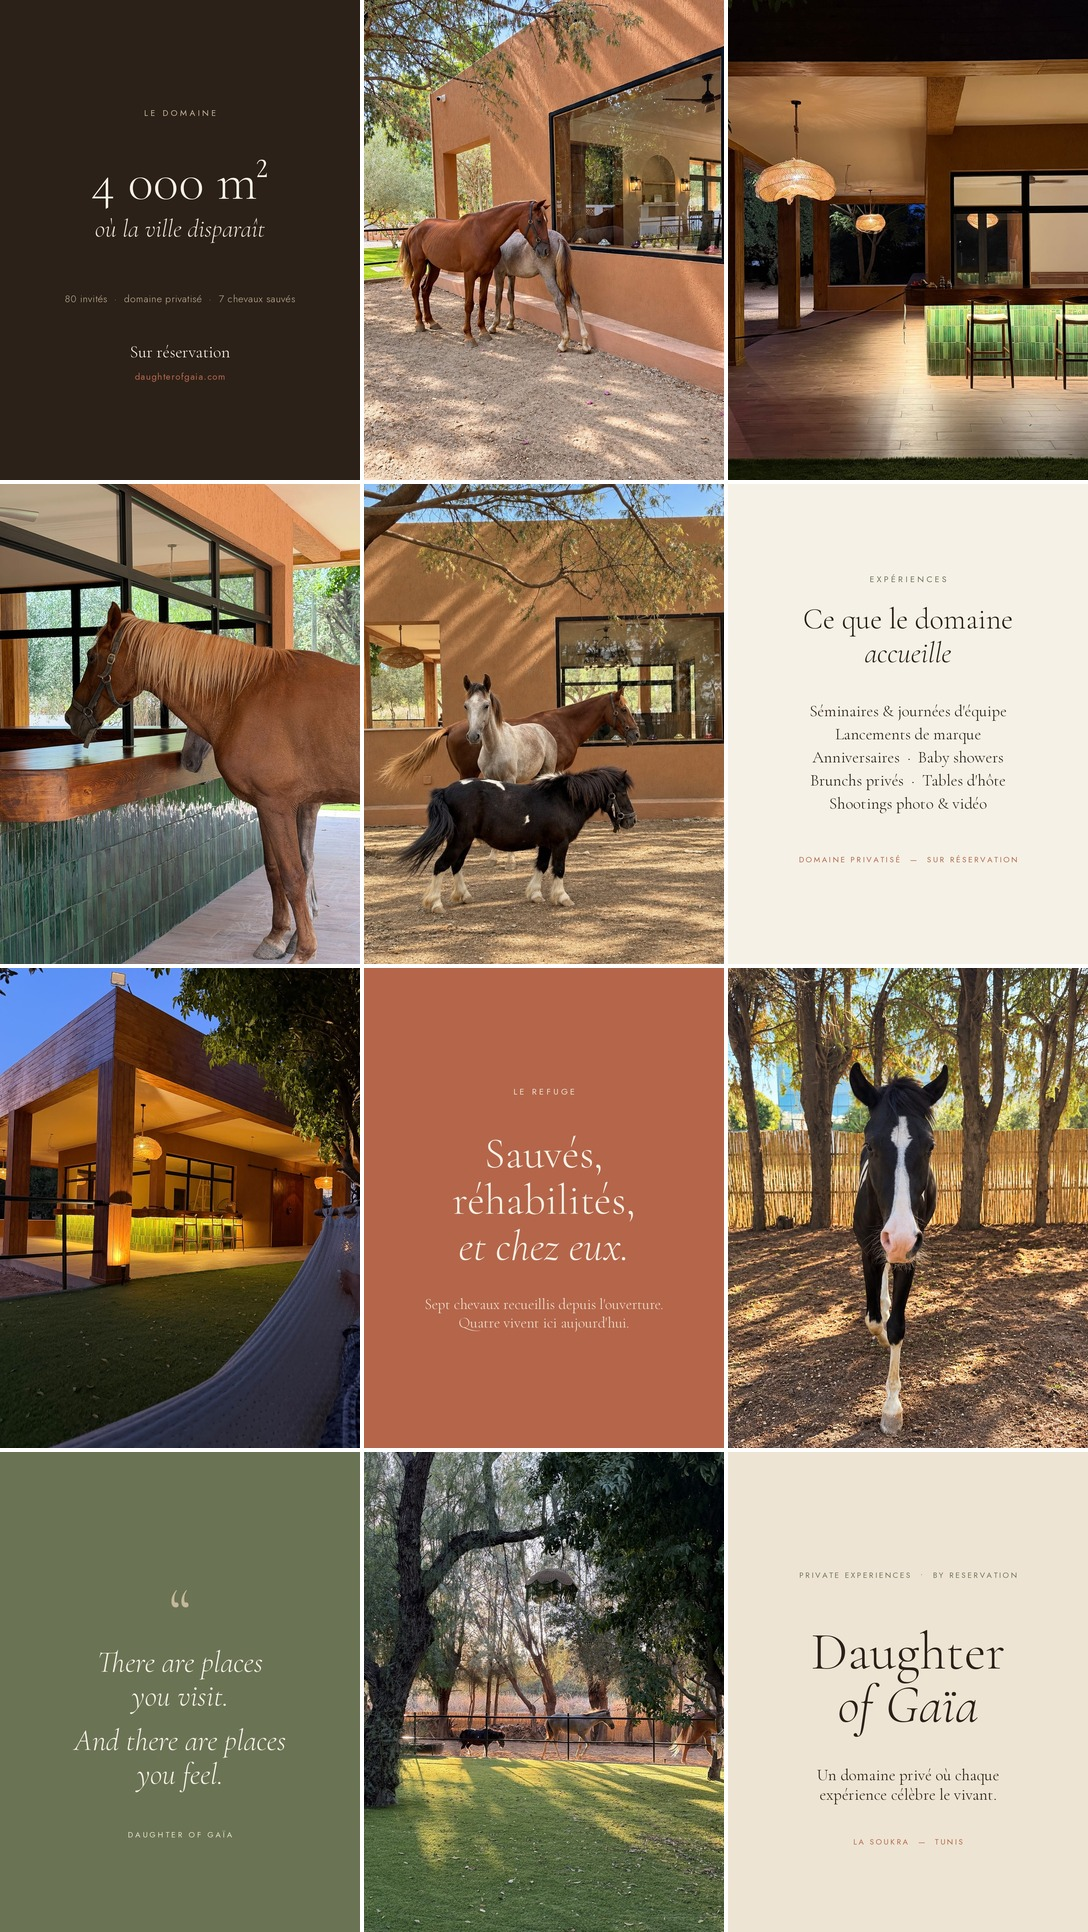
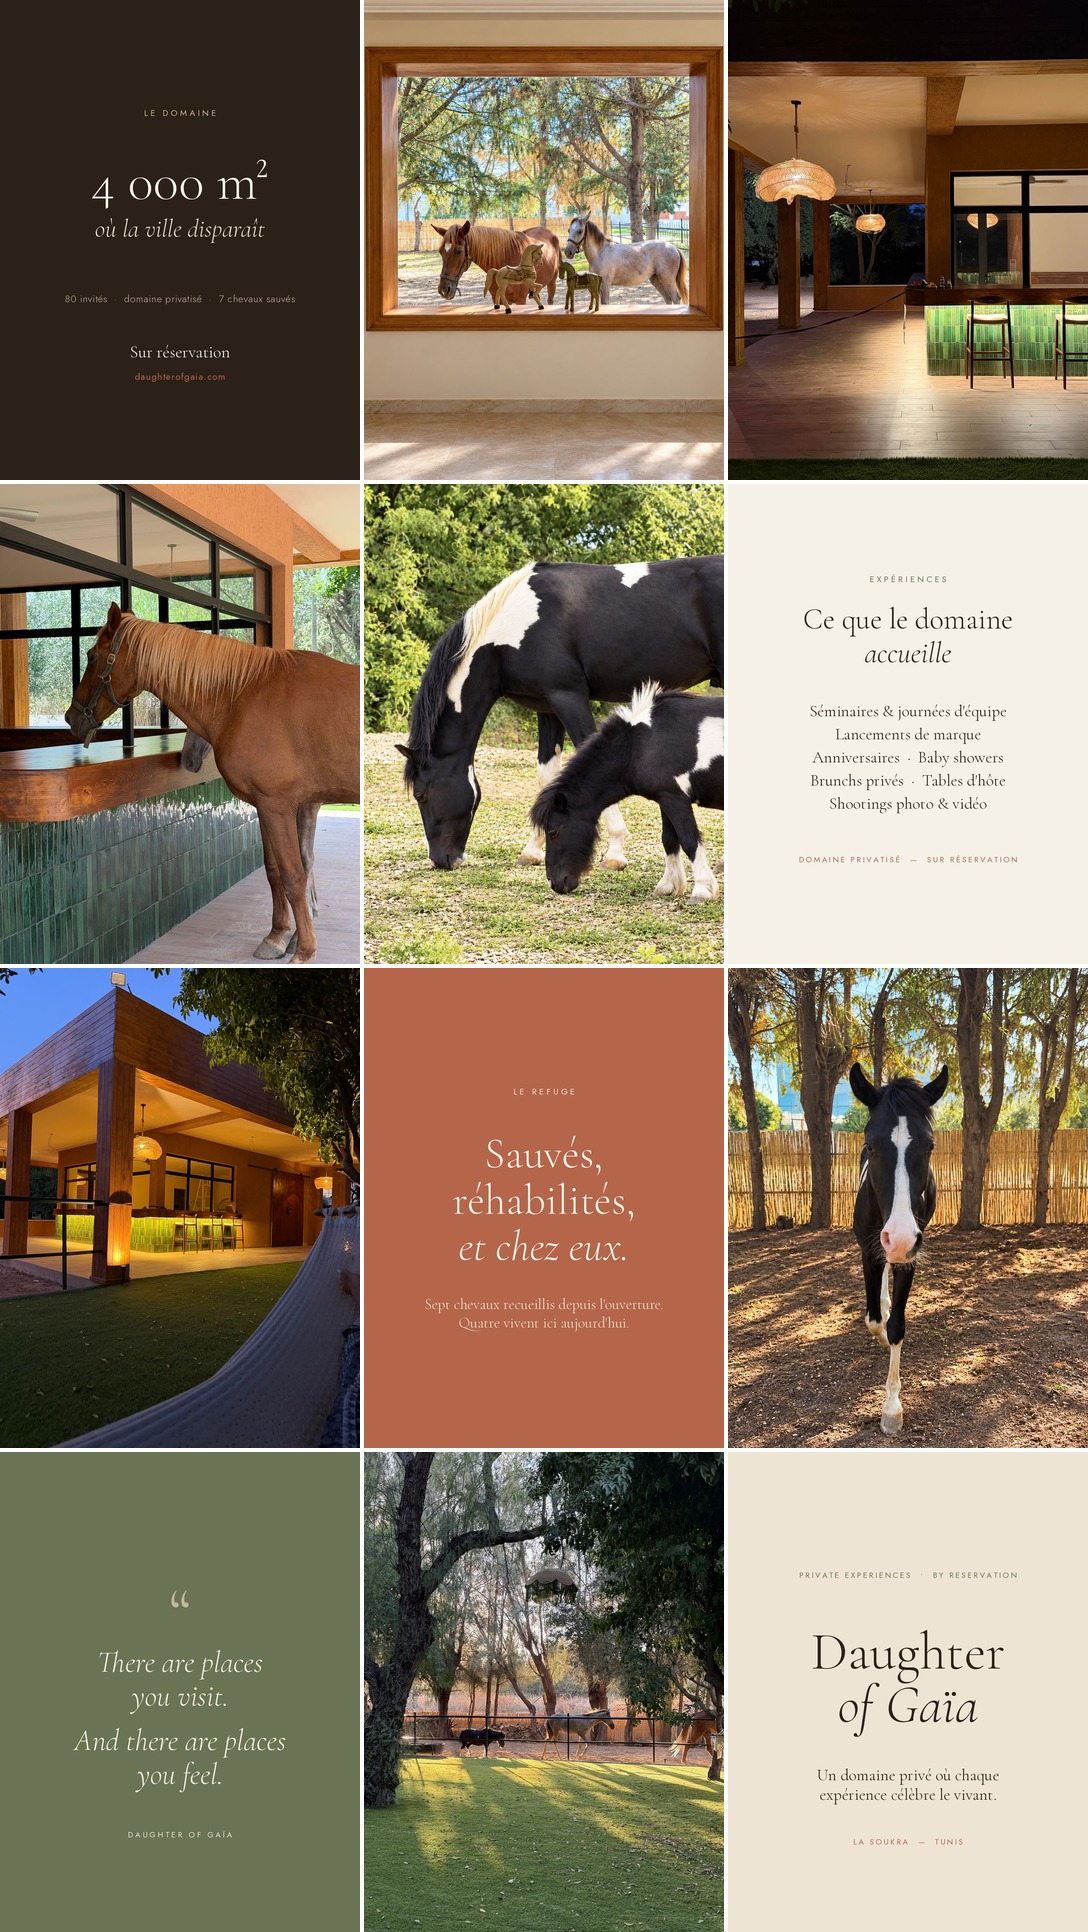
Ajoute deux nouvelles photos de chevaux au kit Instagram
La fenêtre aux statuettes remplace chevaux-fenetre (post 11), les deux
chevaux pie qui broutent remplacent trois-chevaux (post 08).

Claude-Session: https://claude.ai/code/session_01MS2dviwewWZA4sauzwea3X

Changed region(s): [[0.3125, 0.0, 0.6875, 0.4969]]

diff --git a/instagram/generer.py b/instagram/generer.py
@@ -12,6 +12,7 @@ from PIL import Image, ImageDraw, ImageFont, ImageOps
 
 RACINE = Path(__file__).resolve().parent
 PHOTOS = RACINE.parent / "daughter-of-gaia" / "public" / "images"
+PHOTOS_KIT = RACINE / "photos"  # photos propres au kit, absentes du site
 POLICES = Path(sys.argv[1]) if len(sys.argv) > 1 else RACINE / "polices"
 
 SABLE, BLANC, ENCRE = "#EDE4D3", "#F6F1E7", "#2B2118"
@@ -36,7 +37,8 @@ def sans(t, g=300): return police("Jost[wght].ttf", t, g)
 
 
 def photo(nom, taille, centre=(0.5, 0.5)):
-    im = ImageOps.exif_transpose(Image.open(PHOTOS / nom)).convert("RGB")
+    src = PHOTOS_KIT / nom if (PHOTOS_KIT / nom).exists() else PHOTOS / nom
+    im = ImageOps.exif_transpose(Image.open(src)).convert("RGB")
     return ImageOps.fit(im, taille, Image.LANCZOS, centering=centre)
 
 
@@ -120,10 +122,10 @@ def posts():
         ("DOMAINE PRIVATISÉ  —  SUR RÉSERVATION", sans(22, 400), TERRA, 1040, 5),
     ]), out / "07-experiences.jpg")
 
-    sauver(photo("trois-chevaux.jpg", POST, (0.5, 0.6)), out / "08-trois-chevaux.jpg")
+    sauver(photo("chevaux-pie-broutent.jpg", POST, (0.5, 0.72)), out / "08-chevaux-broutent.jpg")
     sauver(photo("cheval-bar.jpg", POST, (0.5, 0.55)), out / "09-cheval-bar.jpg")
     sauver(photo("lanternes.jpg", POST, (0.45, 0.5)), out / "10-lanternes.jpg")
-    sauver(photo("chevaux-fenetre.jpg", POST, (0.5, 0.6)), out / "11-chevaux-fenetre.jpg")
+    sauver(photo("fenetre-chevaux-statuettes.jpg", POST, (0.5, 0.45)), out / "11-fenetre-statuettes.jpg")
 
     # 12 — le domaine en chiffres
     sauver(carte(ENCRE, BLANC, [
@@ -178,8 +180,8 @@ def profil():
 
 def apercu():
     """La grille telle qu'elle apparaîtra, du plus récent au plus ancien."""
-    fichiers = ["12-domaine", "11-chevaux-fenetre", "10-lanternes", "09-cheval-bar",
-                "08-trois-chevaux", "07-experiences", "06-bar-nuit", "05-refuge",
+    fichiers = ["12-domaine", "11-fenetre-statuettes", "10-lanternes", "09-cheval-bar",
+                "08-chevaux-broutent", "07-experiences", "06-bar-nuit", "05-refuge",
                 "04-cheval-noir-blanc", "03-citation", "02-jardin-soir", "01-annonce"]
     c, g = 360, 4  # vignettes 3:4, comme la grille actuelle d'Instagram
     h = c * 4 // 3
